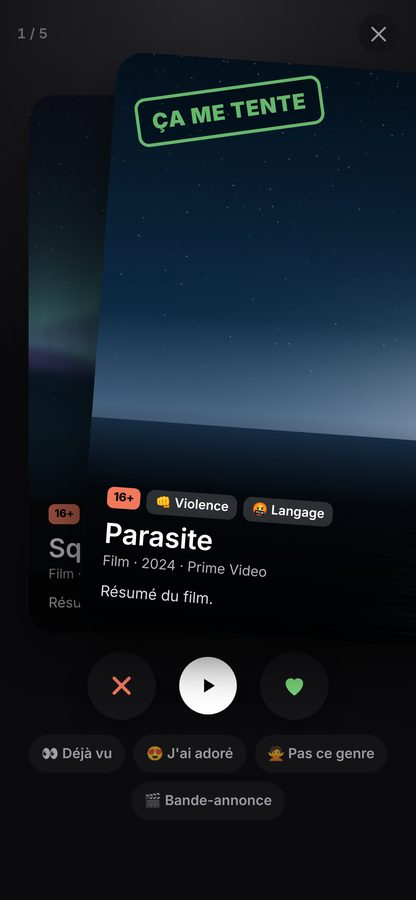
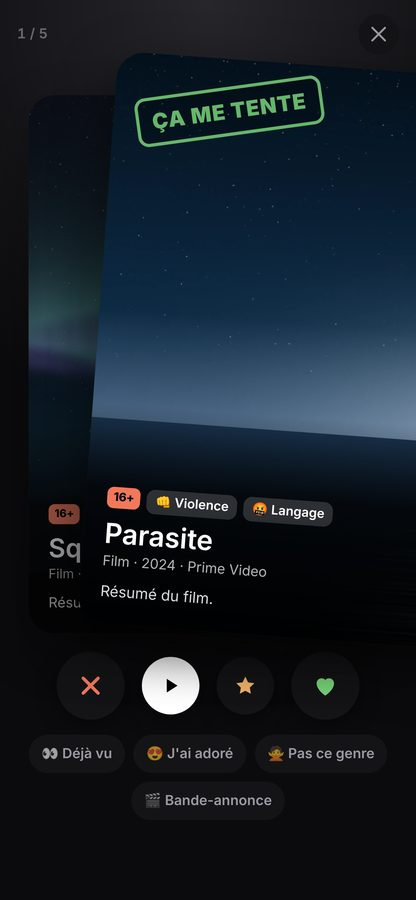
README : captures du téléphone à jour (défis, clés API)
Claude-Session: https://claude.ai/code/session_01Paqq53BU5zXPDT5TyAoMWv

Changed region(s): [[0.1875, 0.7156, 0.625, 0.8089], [0.6875, 0.7467, 0.8125, 0.7778]]

diff --git a/README.md b/README.md
@@ -44,6 +44,8 @@ L'histoire du projet : [J'ai codé l'accueil de ma TV… sans savoir coder](http
 <img src="docs/images/tel-telecommande.jpg" width="240" alt="La télécommande sur le téléphone">
 <img src="docs/images/tel-a-regarder.jpg" width="240" alt="À regarder : nouveautés, films à revoir, cinéma coréen">
 <img src="docs/images/tel-cartes.jpg" width="240" alt="Les cartes à swiper">
+<img src="docs/images/tel-defis.jpg" width="240" alt="Les réglages des défis">
+<img src="docs/images/tel-cles.jpg" width="240" alt="La page Clés API, avec un bouton Tester">
 </p>
 
 <sub>Captures en mode démo (faux agenda). Photo de fond : Sebastian Unrau sur <a href="https://unsplash.com">Unsplash</a>.</sub>
